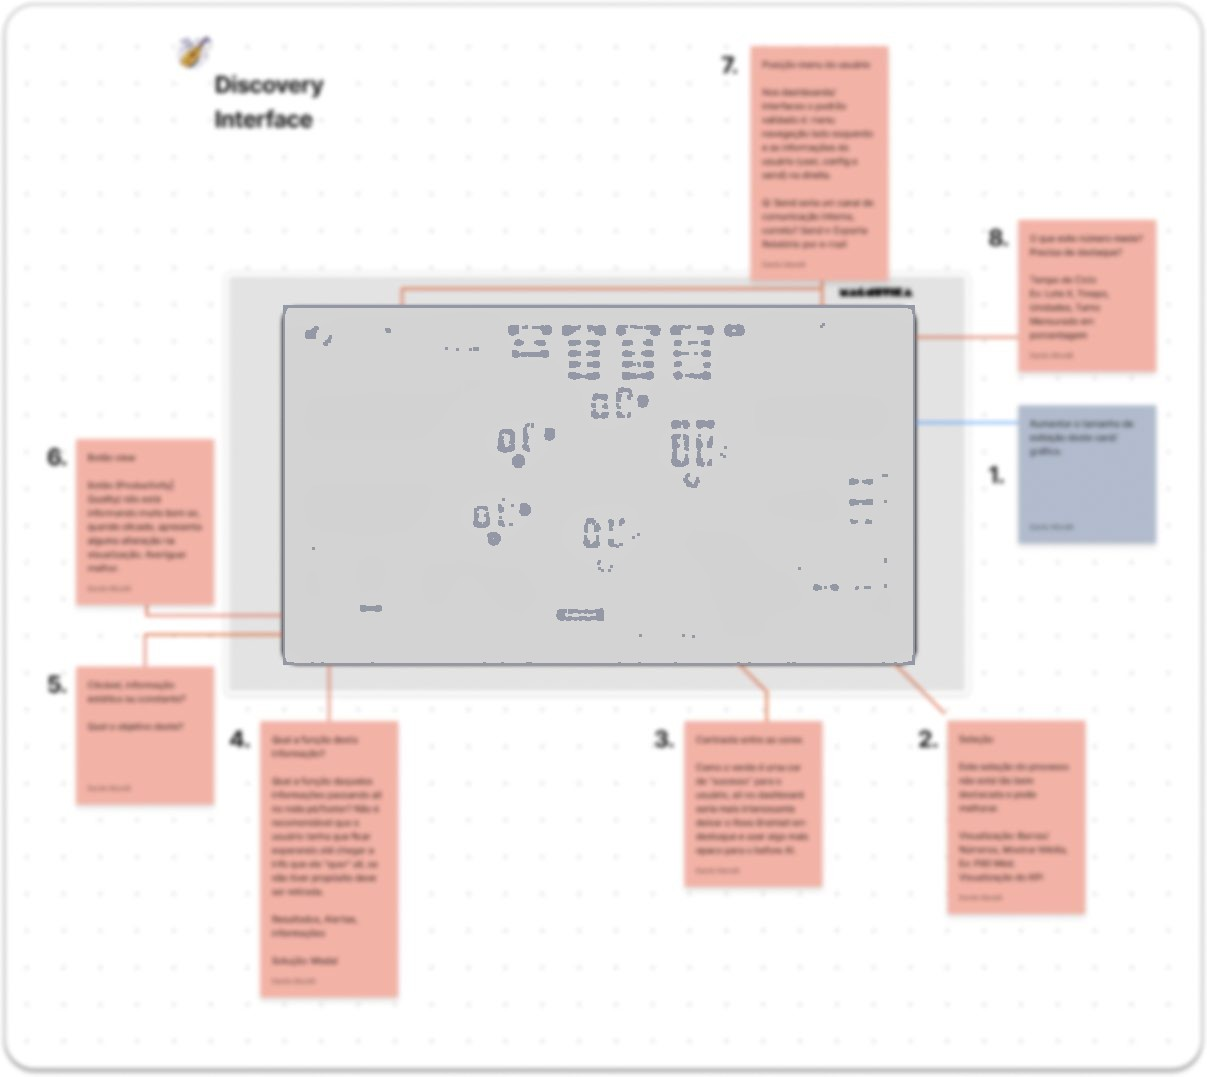
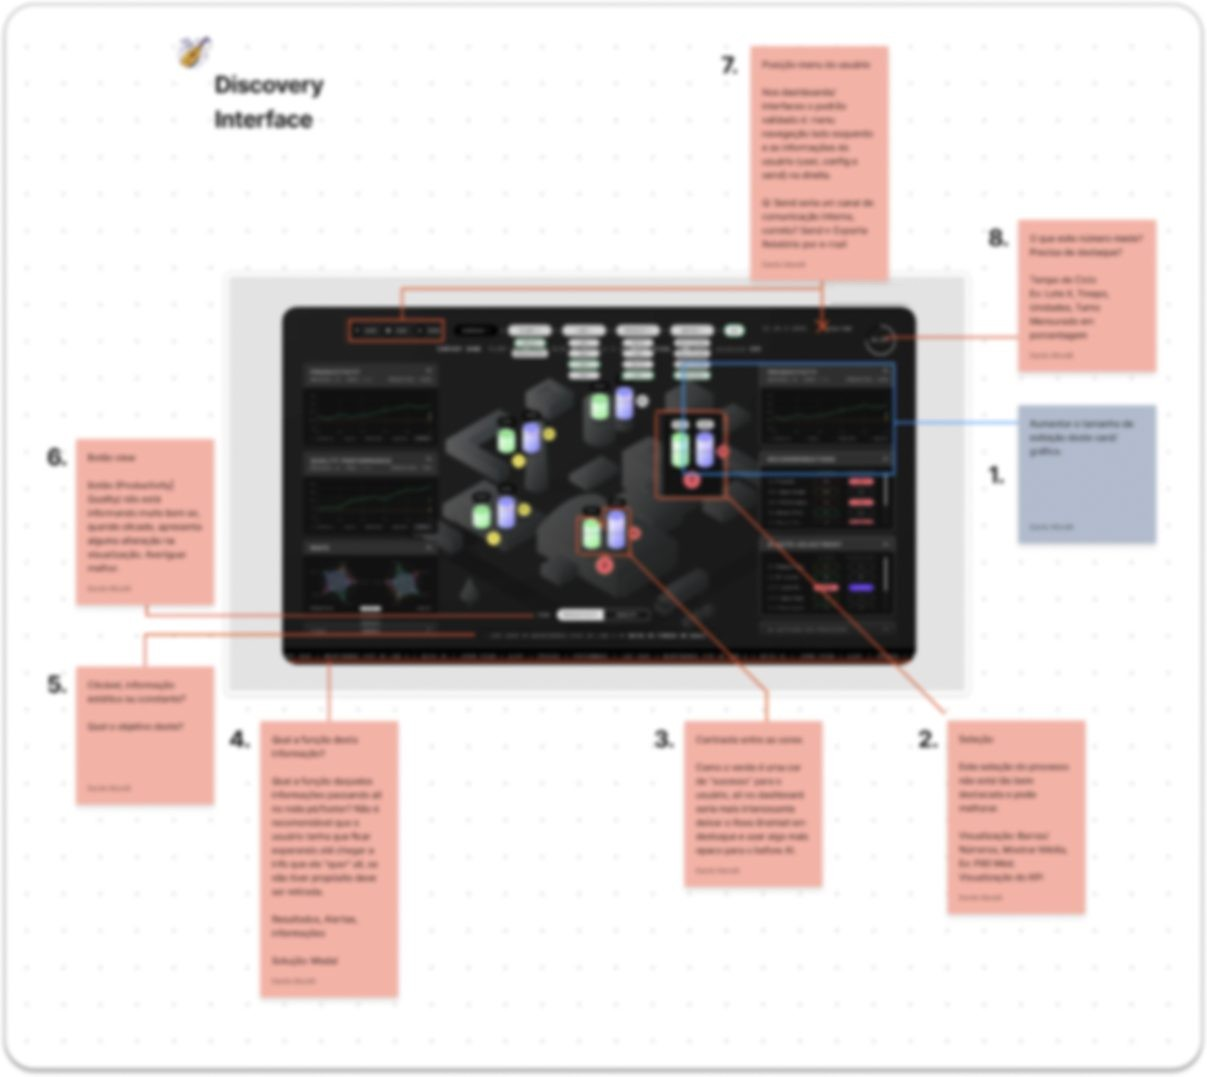
Ajustes

Changed region(s): [[0.2146, 0.2451, 0.7664, 0.6435]]

diff --git a/assets/css/site.css b/assets/css/site.css
@@ -150,15 +150,10 @@ figcaption{font-size:.88rem;color:var(--muted);margin-top:.6rem}
 @media (min-width:900px){.hero-grid{grid-template-columns:minmax(0,1.25fr) minmax(0,.75fr)}}
 .hero-text{min-width:0}
 .hero .lead{margin-left:0;max-width:34rem}
-.hero-figure{margin:0;position:relative;width:100%;max-width:440px;justify-self:end;aspect-ratio:3/4;isolation:isolate;animation:heroPhoto 1.6s cubic-bezier(.2,.7,.2,1) .15s both}
-.hf-disc{position:absolute;left:6%;width:88%;bottom:4%;aspect-ratio:1;border-radius:50%;background:var(--cta-lime);z-index:-1}
-.hf-ring{position:absolute;left:-8%;top:4%;width:72%;aspect-ratio:1;border-radius:50%;border:1.5px dashed rgba(244,241,234,.38);z-index:-2;animation:hfSpin 80s linear infinite}
-.hf-dots{position:absolute;right:-6%;top:12%;width:36%;aspect-ratio:1;border-radius:50%;background-image:radial-gradient(circle,rgba(198,222,100,.85) 2px,transparent 2.6px);background-size:12px 12px;z-index:-2}
-.hf-orb{position:absolute;left:2%;bottom:30%;width:9%;aspect-ratio:1;border-radius:50%;background:#9D85B5;z-index:2}
-.hero-figure img{position:absolute;left:0;bottom:0;width:100%;height:auto;display:block;border:0;border-radius:0;-webkit-mask-image:linear-gradient(180deg,#000 0,#000 62.4%,transparent 62.5%),radial-gradient(ellipse 44% 33.56% at 50% 62.4%,#000 99.3%,transparent 100%);mask-image:linear-gradient(180deg,#000 0,#000 62.4%,transparent 62.5%),radial-gradient(ellipse 44% 33.56% at 50% 62.4%,#000 99.3%,transparent 100%)}
-@keyframes hfSpin{to{transform:rotate(360deg)}}
-@media (max-width:899px){.hero-figure{justify-self:center;max-width:340px}}
-@keyframes heroPhoto{from{opacity:0;transform:translateY(22px) scale(.97);filter:blur(12px)}to{opacity:1;transform:none;filter:none}}
+.hero-figure{margin:0;position:relative;width:100%;max-width:360px;justify-self:end;isolation:isolate}
+.hero-figure::before{content:"";position:absolute;left:50%;top:40%;width:120%;aspect-ratio:1;transform:translate(-50%,-50%);border-radius:50%;background:radial-gradient(closest-side,rgba(157,133,181,.30),rgba(105,69,141,.10) 60%,transparent);z-index:-1;pointer-events:none}
+.hero-figure img{display:block;width:100%;height:auto;border:0;border-radius:0;-webkit-mask-image:linear-gradient(180deg,#000 76%,transparent 100%);mask-image:linear-gradient(180deg,#000 76%,transparent 100%)}
+@media (max-width:899px){.hero-figure{justify-self:center;max-width:280px}}
 .hero-text>*{animation:heroRise .9s cubic-bezier(.2,.7,.2,1) both}
 .hero-text>.eyebrow{animation-delay:.05s}
 .hero-text>h1{animation-delay:.15s}

diff --git a/index.html b/index.html
@@ -41,7 +41,7 @@
       <p class="lead">Ajudo times a transformar operações complexas e dados em decisões claras, em produtos com IA, dados e operação crítica.</p>
       <!-- /SYNC:abertura -->
       </div>
-      <figure class="hero-figure"><span class="hf-ring" aria-hidden="true"></span><span class="hf-dots" aria-hidden="true"></span><span class="hf-disc" aria-hidden="true"></span><img src="assets/hero-dm.webp?v=20261117d" alt="Retrato de Danilo Morelli" width="800" height="1049"><span class="hf-orb" aria-hidden="true"></span></figure>
+      <figure class="hero-figure"><img src="assets/hero-dm.webp?v=20261117d" alt="Retrato de Danilo Morelli" width="800" height="1049"></figure>
     </div>
   </section>
 
